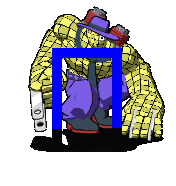
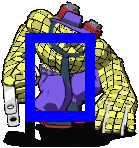
Fix grid crouch hitboxes

diff --git a/main.js b/main.js
@@ -178,18 +178,24 @@ var characterJSON = {
         "imgSize": [169, 120],
         "hurtboxes":[[39, 0, 80, 96]],
         "hitboxes":[],
+        "grounded": true,
+        "groundOffset": 0,
       },
       {
         "name": "crouch",
         "imgSize": [155, 82],
         "hurtboxes":[[26, 5, 80, 60]],
         "hitboxes":[],
+        "grounded": true,
+        "groundOffset": 0,
       },
       {
         "name": "lay",
         "imgSize": [196, 69],
         "hurtboxes":[[28, 1, 136, 45]],
         "hitboxes":[],
+        "grounded": true,
+        "groundOffset": 6,
       }
     ],
     "angles": [
@@ -480,21 +486,27 @@ var characterJSON = {
       },
       {
         "name": "halfcrouch",
-        "imgSize": [160, 224],
-        "hurtboxes": [[35, 58, 70, 80]],
+        "imgSize": [149, 162],
+        "hurtboxes": [[27, 46, 70, 89]],
         "hitboxes": [],
+        "grounded": true,
+        "groundOffset": 0,
       },
       {
         "name": "crouch",
-        "imgSize": [176, 186],
-        "hurtboxes": [[52, 48, 70, 80]],
+        "imgSize": [139, 148],
+        "hurtboxes": [[25, 33, 70, 89]],
         "hitboxes": [],
+        "grounded": true,
+        "groundOffset": 0,
       },
       {
         "name": "lay",
         "imgSize": [210, 89],
         "hurtboxes": [[6, 1, 160, 45]],
         "hitboxes": [],
+        "grounded": true,
+        "groundOffset": 18,
       },
     ],
     "angles": [
